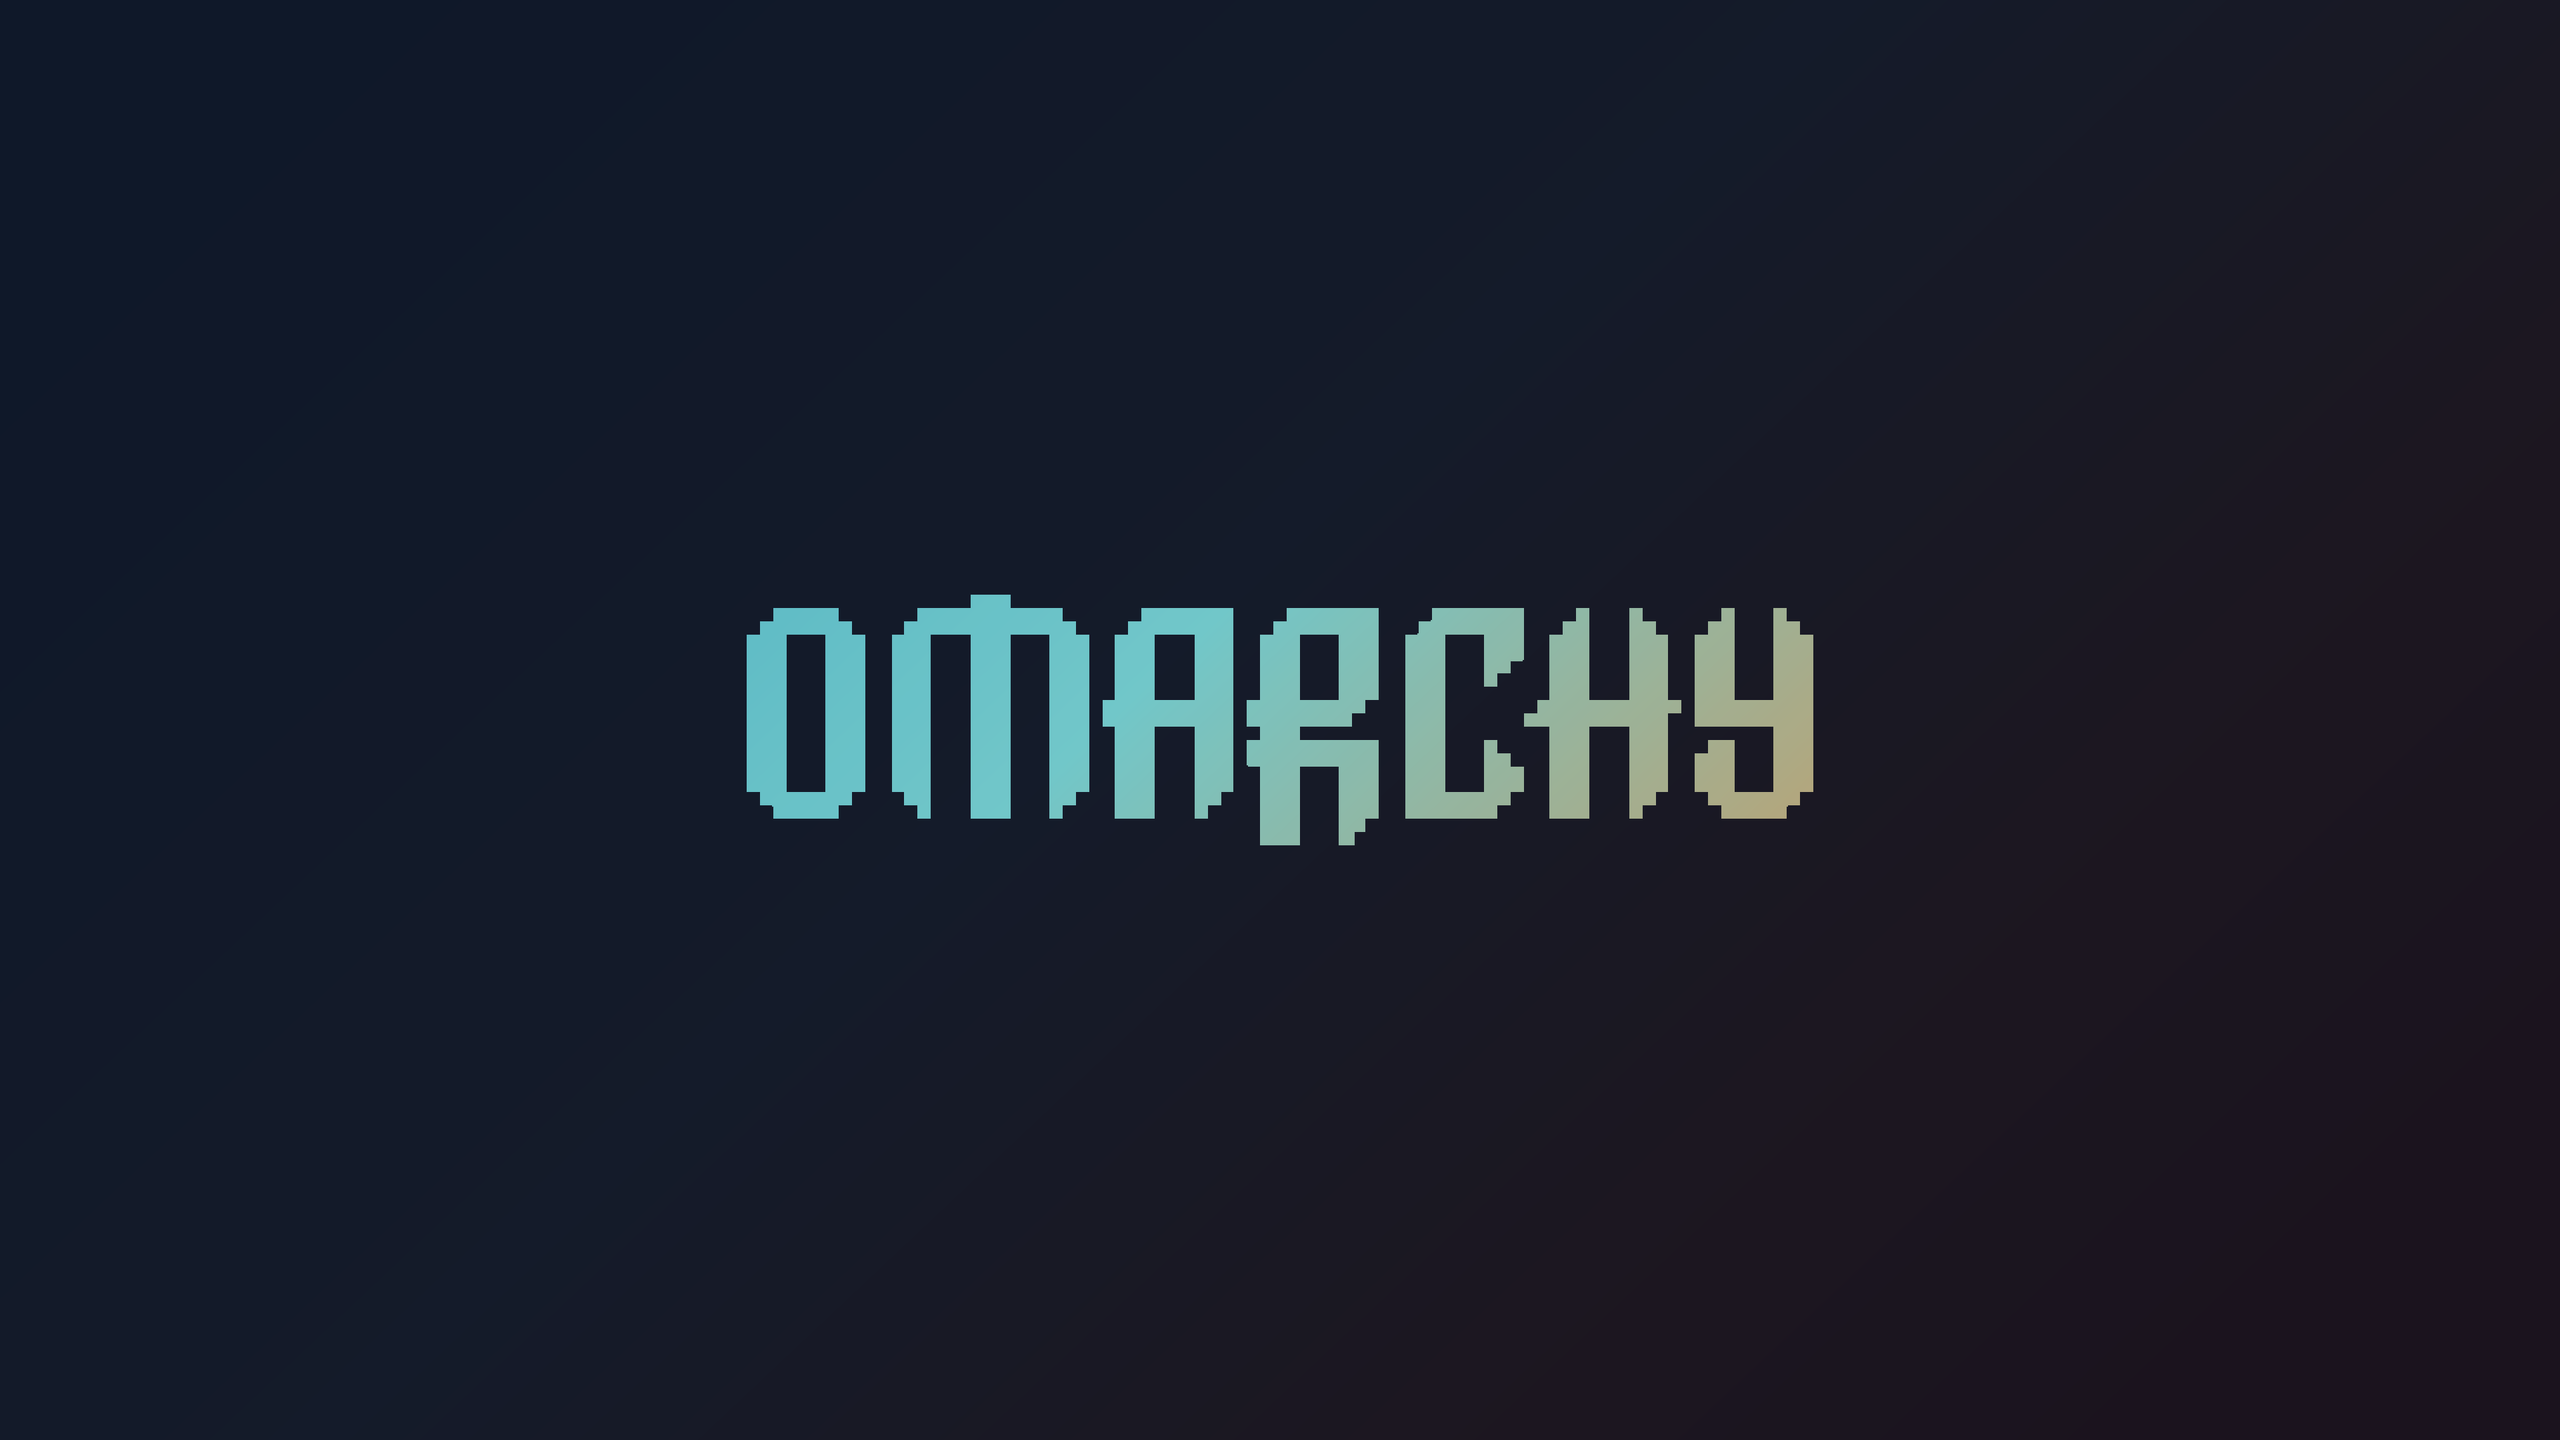
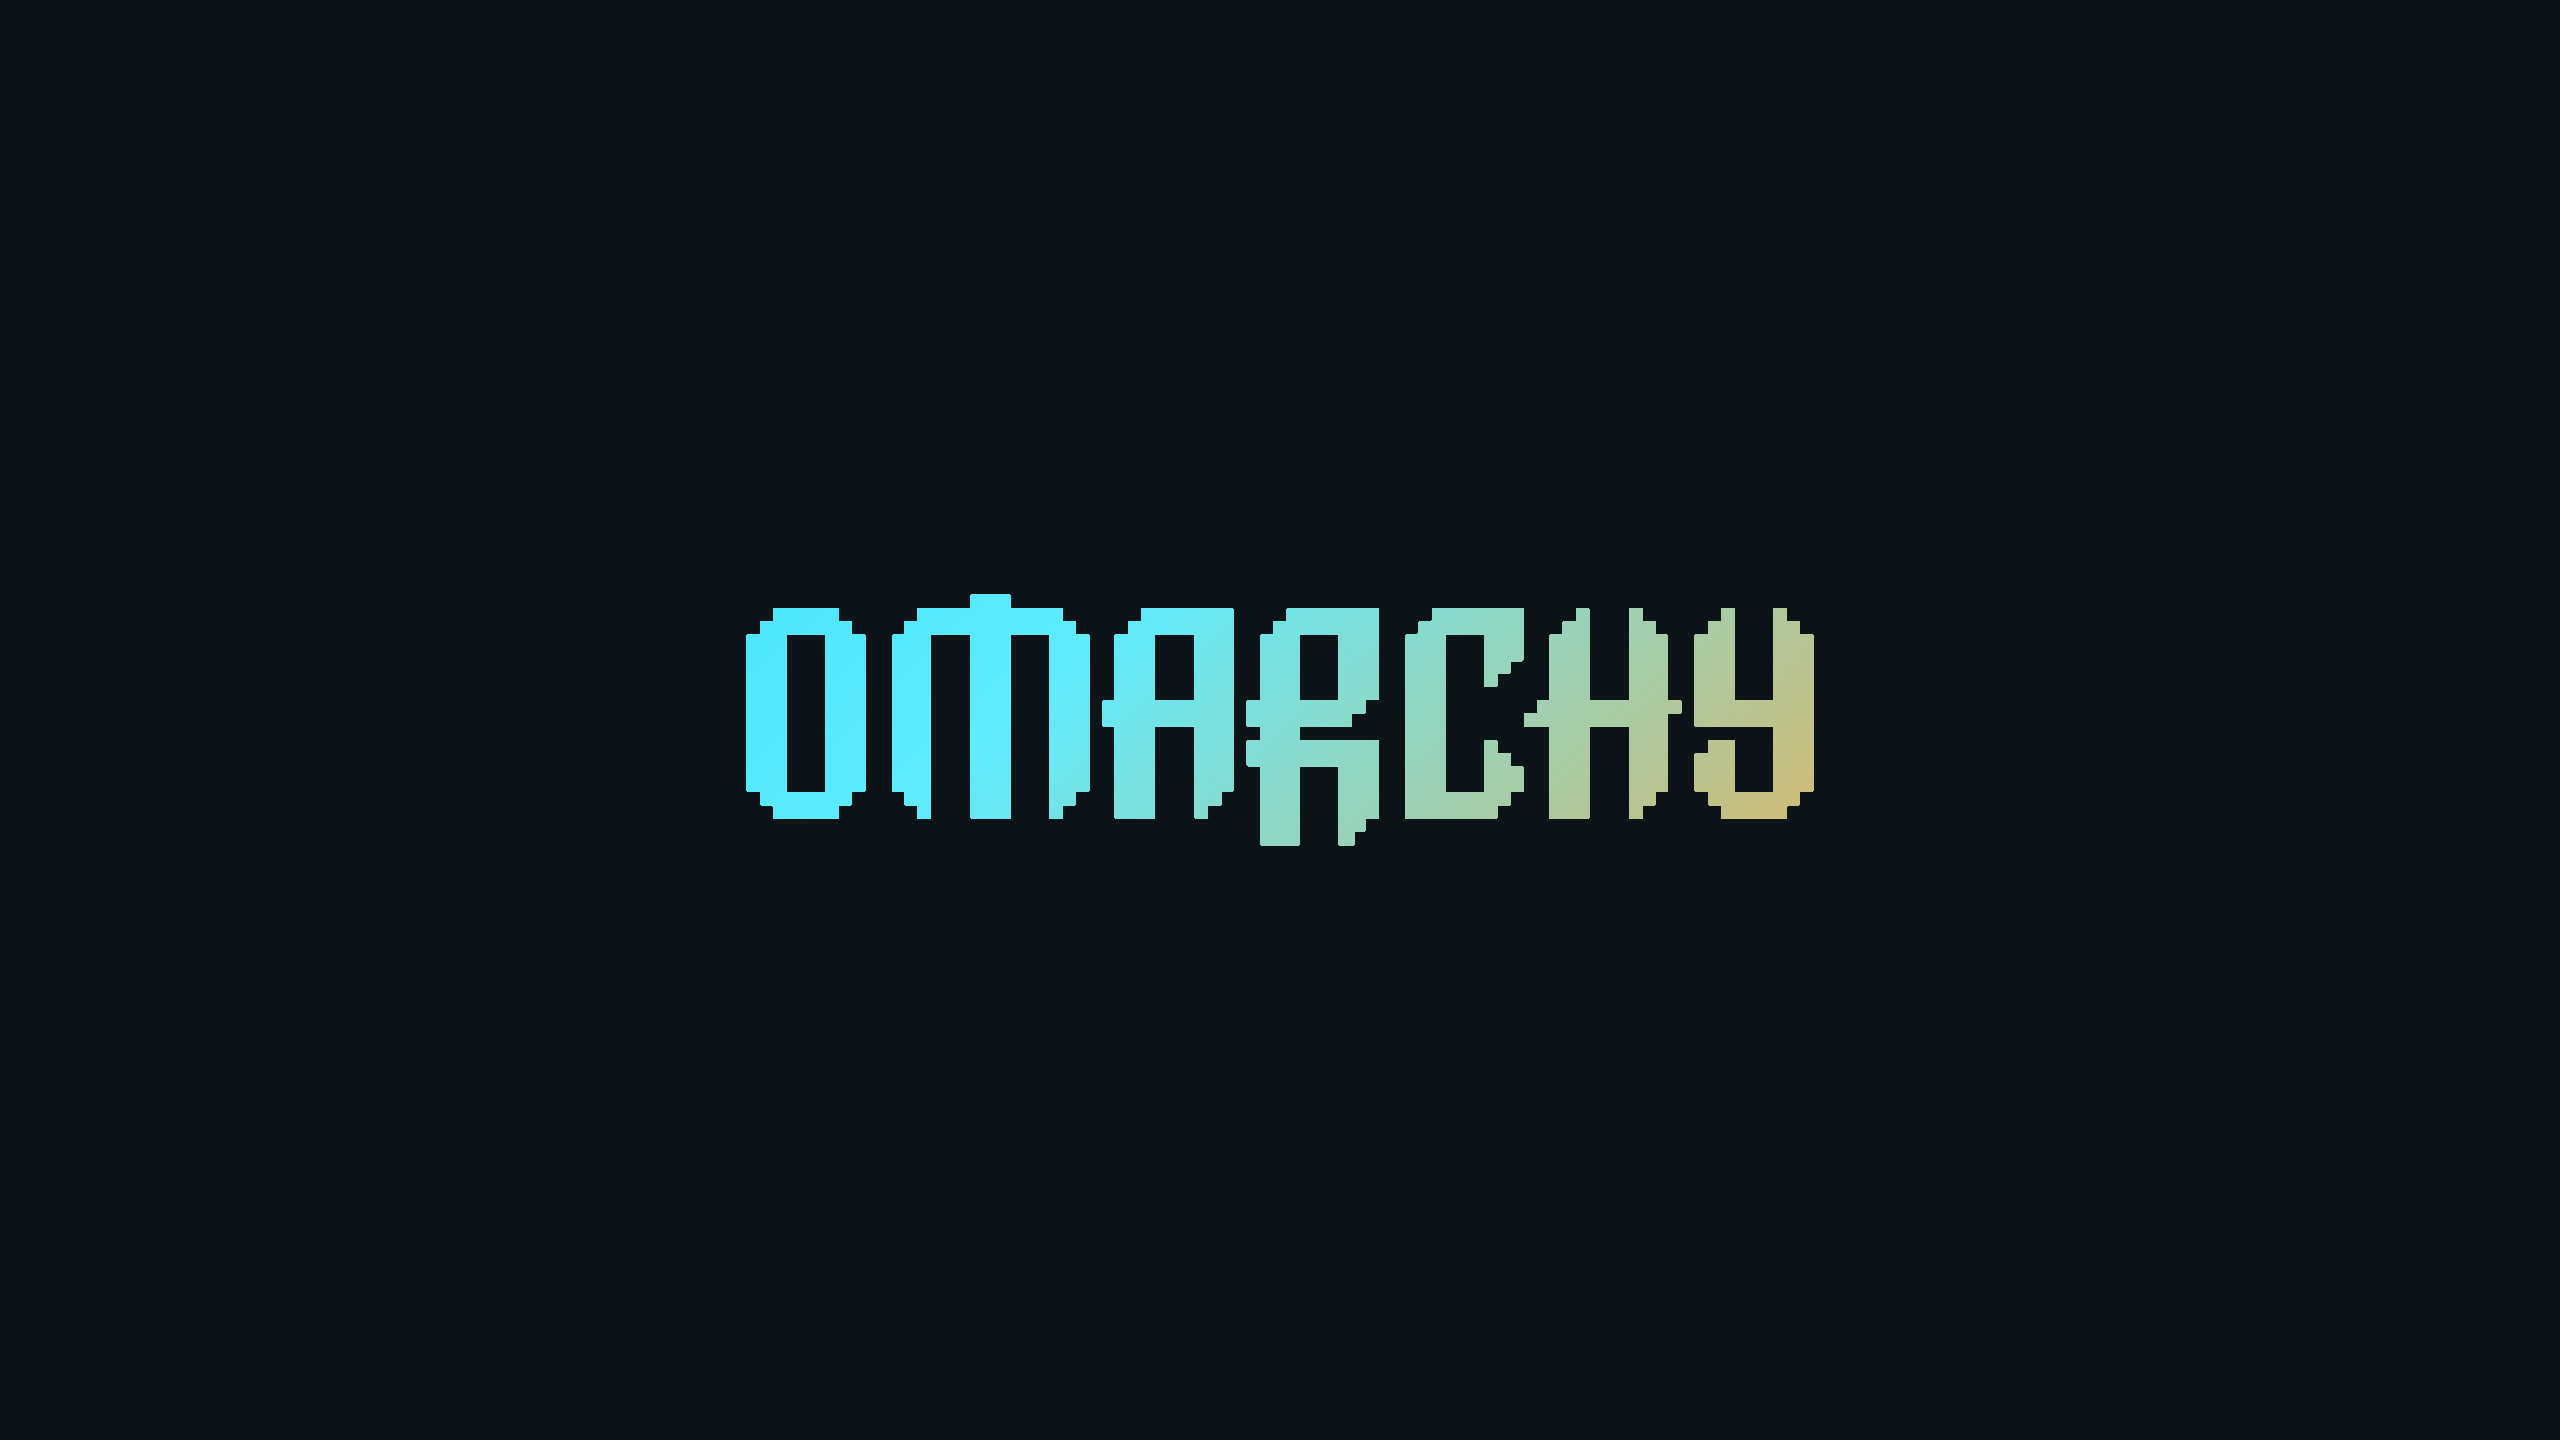
Make the teal more vibrant
Brighten the accent/cyan from #3fc7dd to #1fd4ee (and aqua to #5fecff)
across the palette, living border, glow, omarchy.png and previews; clean
up the colors.toml header.

Changed region(s): [[0.2812, 0.4062, 0.7188, 0.5938], [0.6875, 0.5312, 0.7188, 0.5625]]

diff --git a/waybar.css b/waybar.css
@@ -1,14 +1,14 @@
 /* Claude Eye of God — Waybar */
 @define-color background #0d1417;
 @define-color foreground #dde6e3;
-@define-color accent     #3fc7dd;
+@define-color accent     #1fd4ee;
 @define-color base00 #18211f;
 @define-color base01 #d9674a;
 @define-color base02 #5cba94;
 @define-color base03 #e6b15a;
 @define-color base04 #4593bf;
 @define-color base05 #ab7fb0;
-@define-color base06 #3fc7dd;
+@define-color base06 #1fd4ee;
 @define-color base07 #dde6e3;
 @define-color base08 #5a6e6c;
 @define-color base09 #e88060;
@@ -16,4 +16,4 @@
 @define-color base0B #f0c478;
 @define-color base0C #5fb0d8;
 @define-color base0D #c79ac8;
-@define-color base0E #6fe0ee;
+@define-color base0E #5fecff;

diff --git a/swayosd.css b/swayosd.css
@@ -1,9 +1,9 @@
 /* Claude Eye of God — SwayOSD */
 @define-color background-color #0d1417;
-@define-color border-color      #3fc7dd;
+@define-color border-color      #1fd4ee;
 @define-color label             #dde6e3;
 @define-color image             #dde6e3;
-@define-color progress          #3fc7dd;
+@define-color progress          #1fd4ee;
 
 window:not(:backdrop),
 window:backdrop {

diff --git a/walker.css b/walker.css
@@ -1,8 +1,8 @@
 /* Claude Eye of God — Walker launcher */
-@define-color selected-text #3fc7dd;
+@define-color selected-text #1fd4ee;
 @define-color text          #dde6e3;
 @define-color base          #0d1417;
-@define-color border        #3fc7dd;
+@define-color border        #1fd4ee;
 @define-color foreground    #dde6e3;
 @define-color background    #0d1417;
 